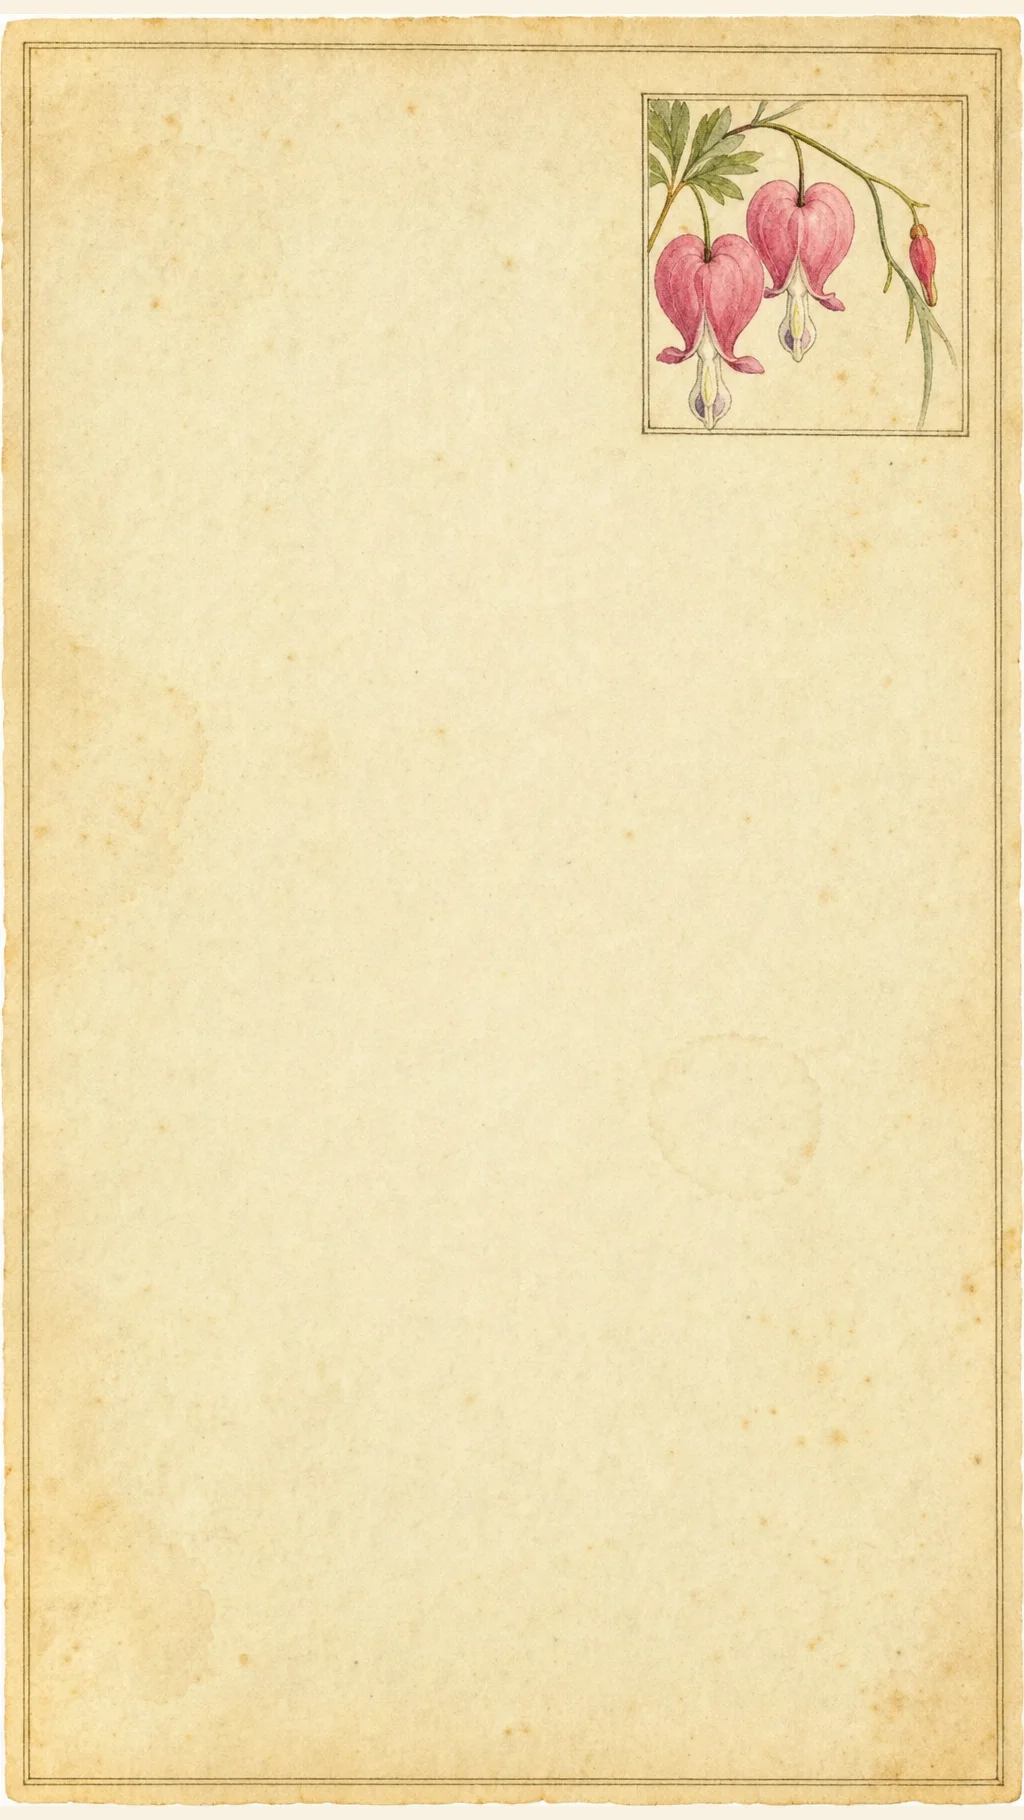
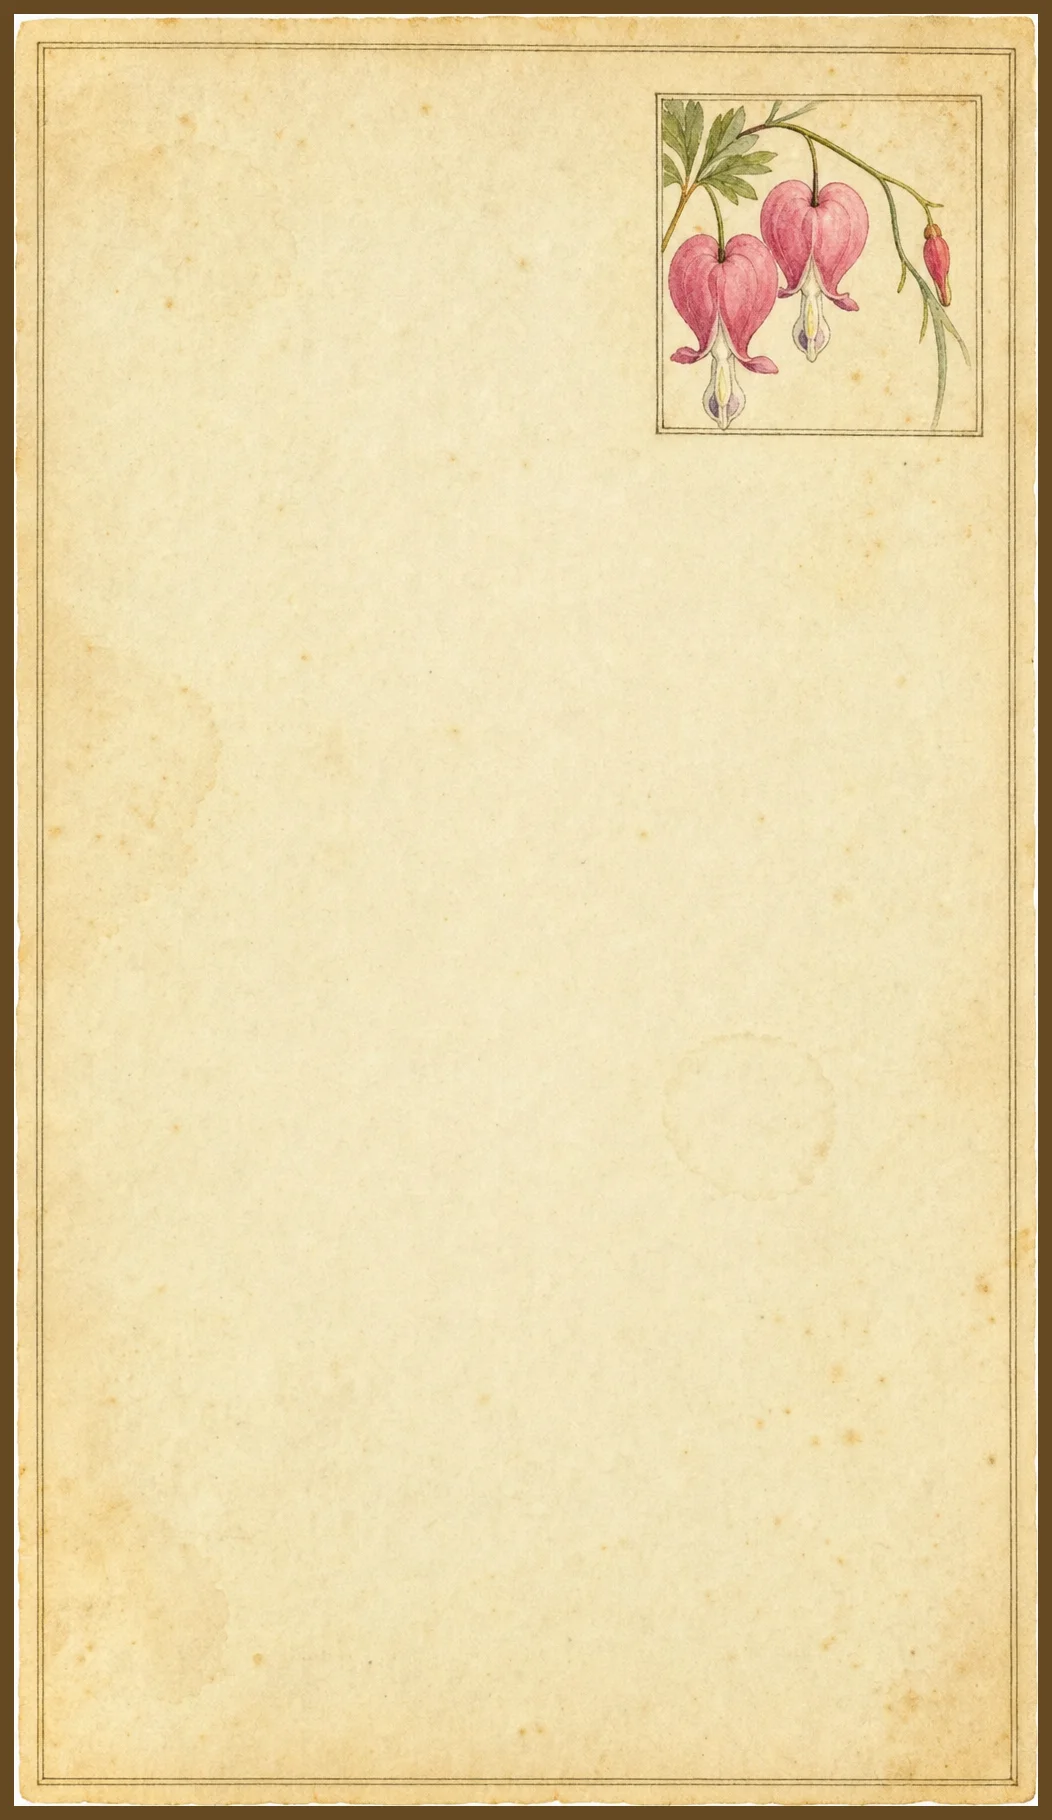
Add dark-walnut hairline frame around plate images, adjust plate aspect
encodePlateWebp now wraps each 1024x1792 output in a 14px dark walnut
(#664923) band on all four sides, producing 1052x1820 (aspect 0.578).
The illustration's own antique border is preserved intact — the walnut
band sits outside it, giving each plate a bound-book-page look.

Plate CSS aspect-ratio updated from 9/16 to 1052/1820 (~26:45) to match.
Very close to 9:16 (0.5625 vs 0.578) so the existing hand-composed
Coneflower plate still renders with essentially the same fit.

Re-encoded Bleeding Heart plates from cached PNG (no API call).

Cache bumped to plant-buddy-2026-07-01an.

Changed region(s): [[0.0, 0.0, 1.0, 1.0], [0.1562, 0.0615, 0.1875, 0.0923]]

diff --git a/index.html b/index.html
@@ -1010,10 +1010,10 @@ button[onclick*="showAddPlant"]{
 .plate-pages{
   position:relative;
   width:100%;
-  /* 9:16 is the canonical plate aspect — matches the original hand-composed
-     Coneflower plate (941×1672). New generator outputs are padded from 4:7
-     up to 9:16 with matching cream parchment (~14px each side, invisible). */
-  aspect-ratio:9/16;
+  /* 1052 : 1820 (≈ 26:45, aspect 0.578) — matches gpt-image-2's 1024×1792
+     output plus a 14px dark-walnut hairline frame added on all four sides
+     by the encoder. Very close to 9:16 (0.5625). */
+  aspect-ratio:1052/1820;
   perspective:1600px;
   border-radius:8px;
   overflow:visible;

diff --git a/sw.js b/sw.js
@@ -1,5 +1,5 @@
 // Bump date on each deploy to refresh cached assets
-const CACHE = 'plant-buddy-2026-07-01al';
+const CACHE = 'plant-buddy-2026-07-01an';
 const SHELL = ['./index.html', './manifest.json', './icon-192.png', './icon-512.png'];
 
 self.addEventListener('install', e => {